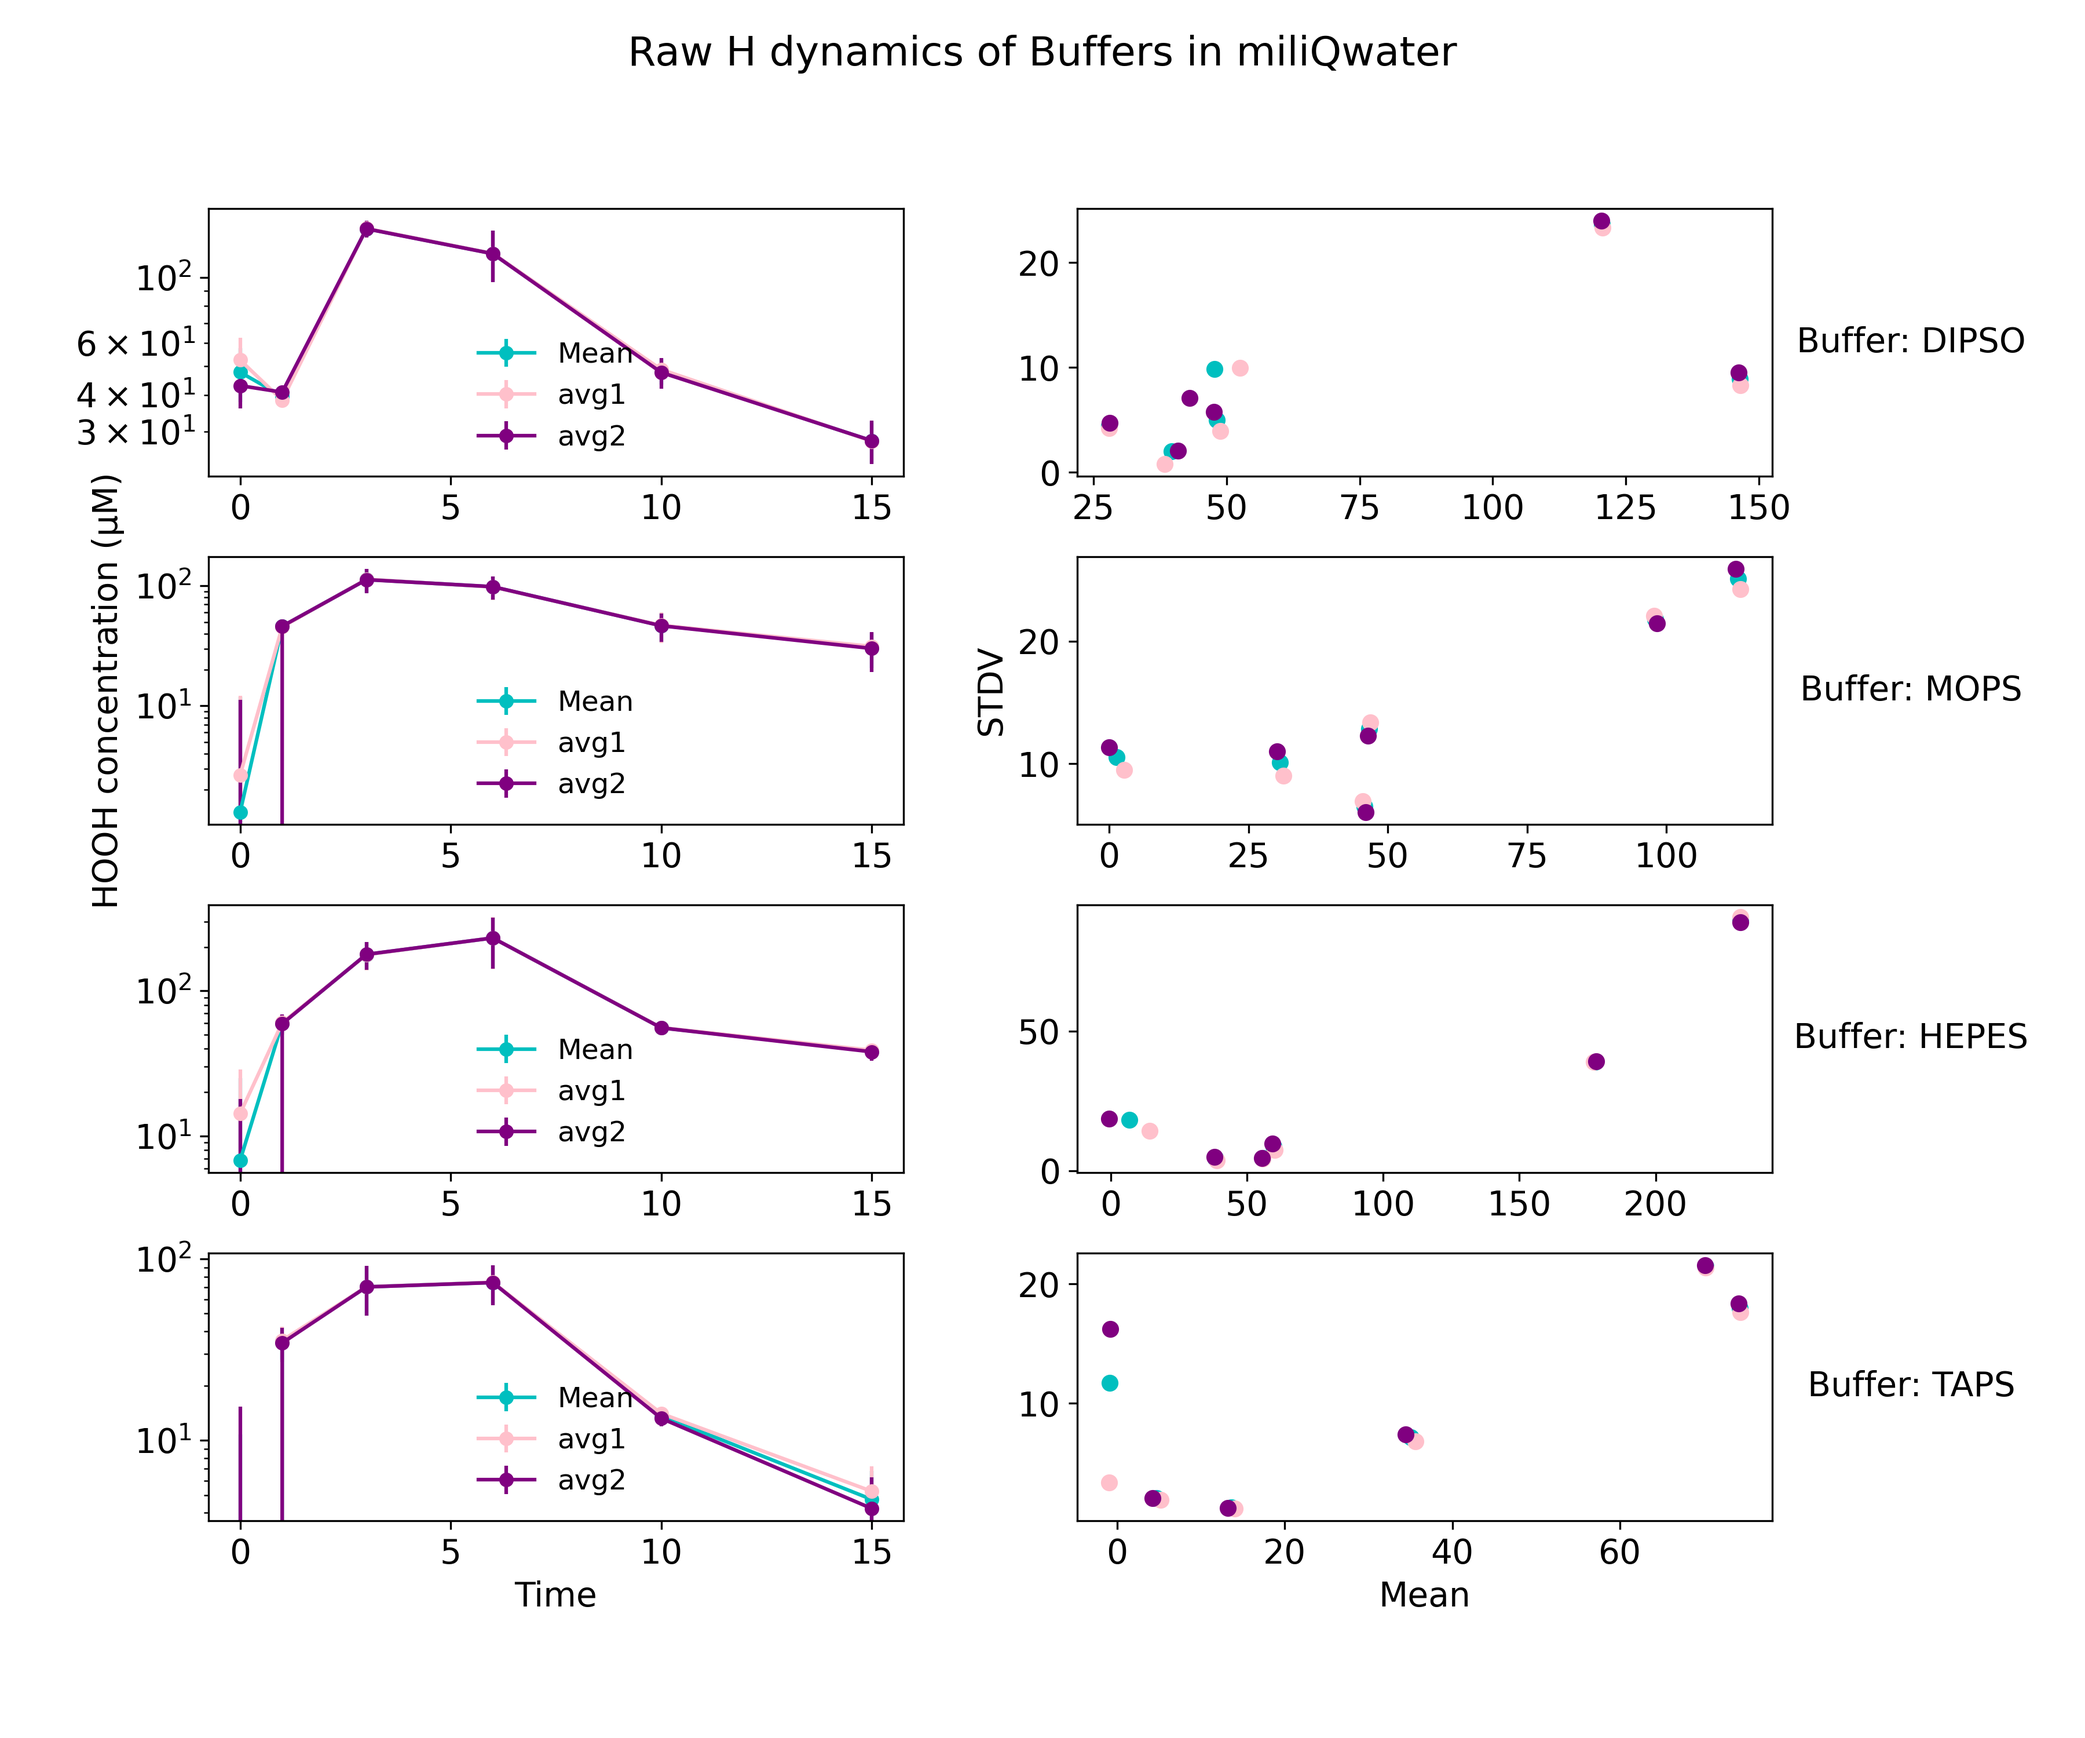
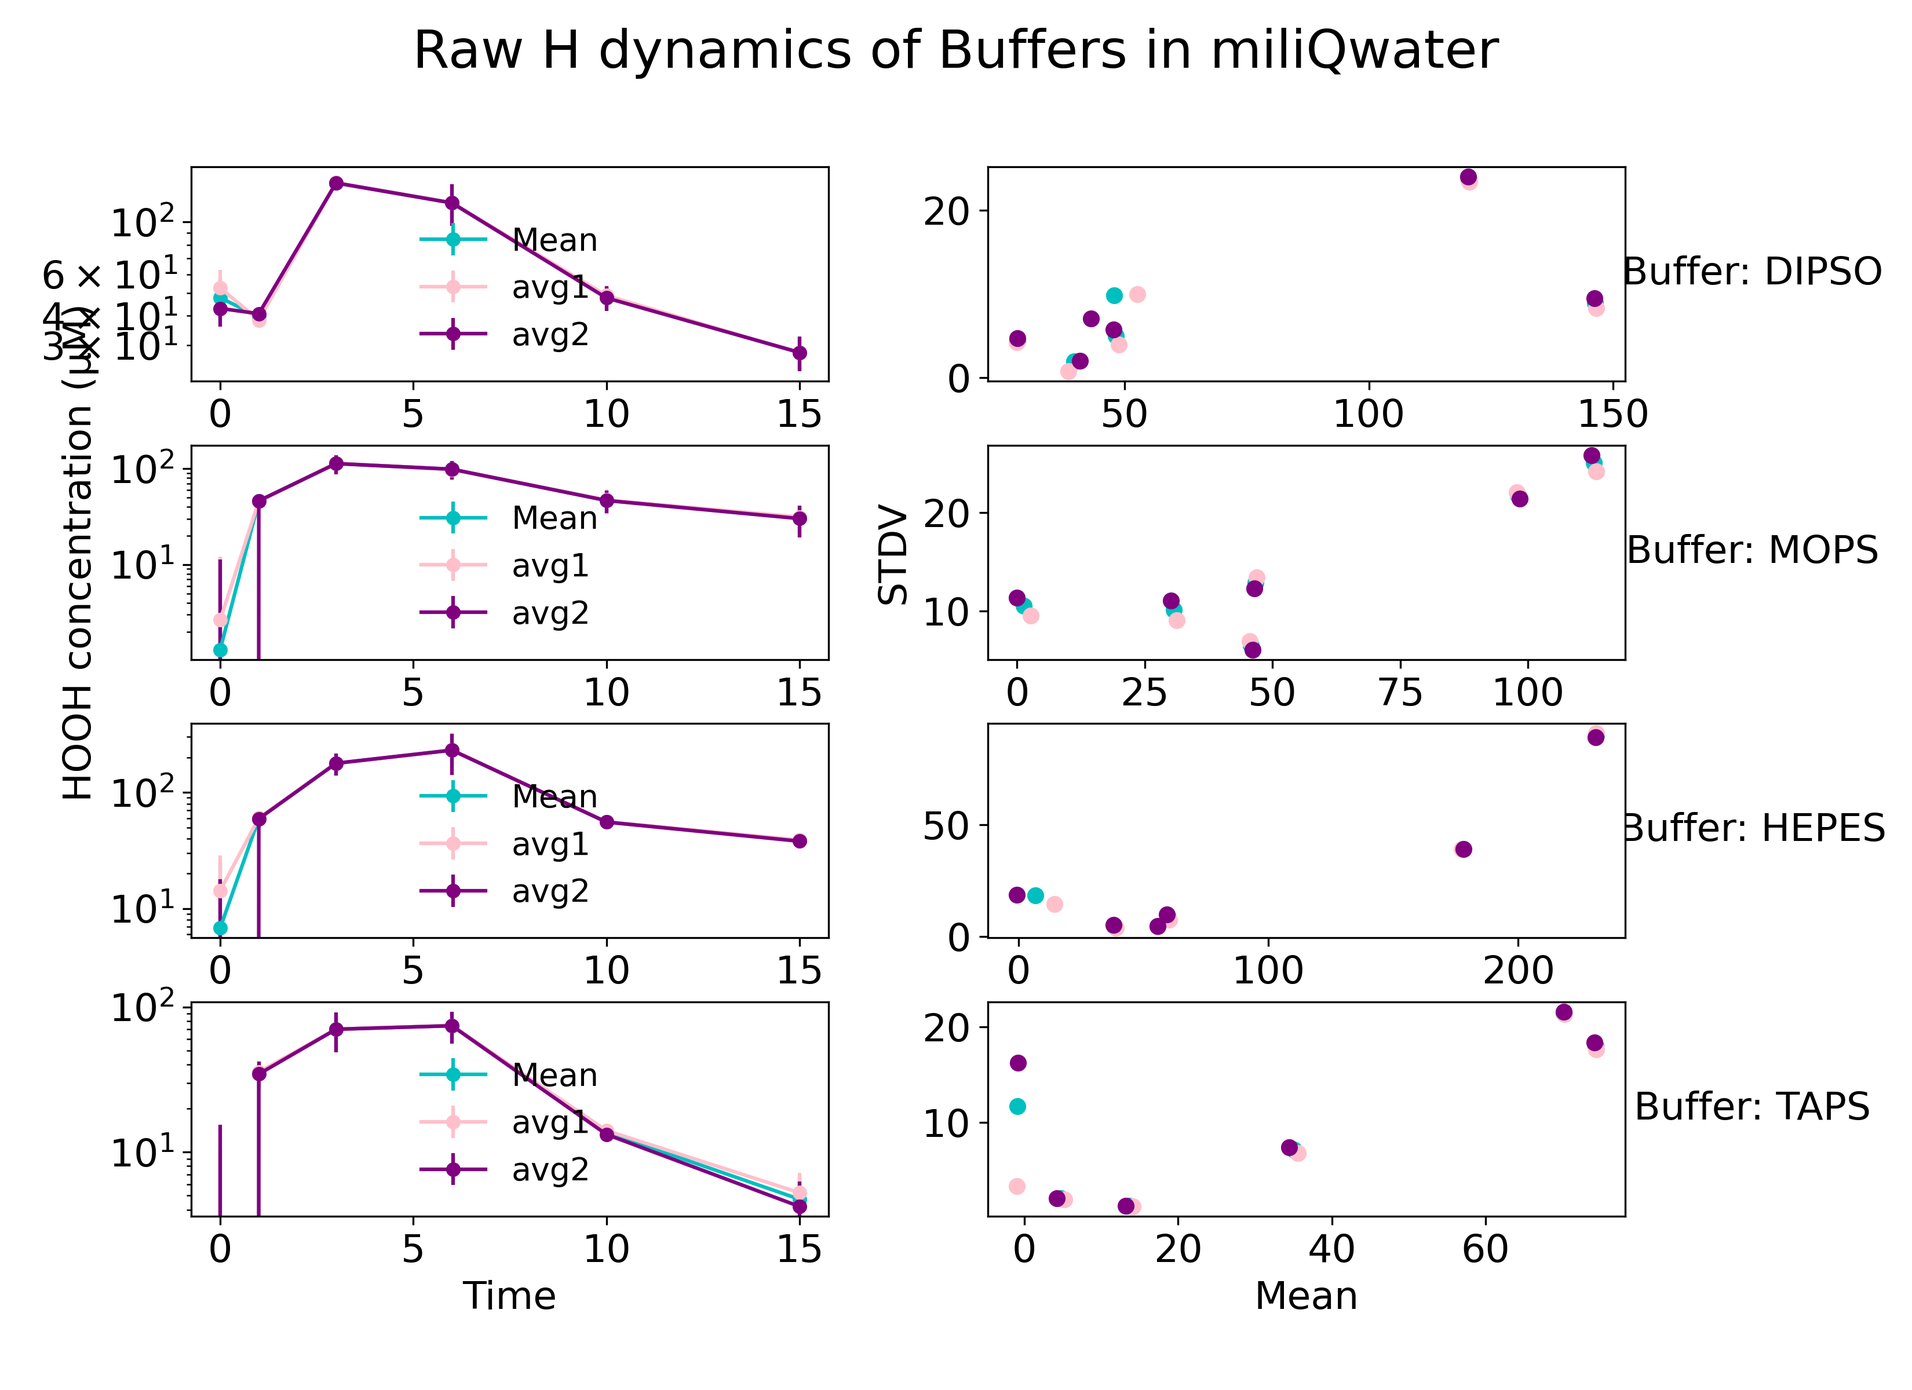
buffers in situ

diff --git a/src/viz_Hepes_trials.py b/src/viz_Hepes_trials.py
@@ -15,7 +15,7 @@ to do: Get model working for Hepes treatments in data
 '''
 
 
-from scipy import *
+import scipy 
 from scipy.integrate import odeint
 import pandas as pd
 import numpy as np      
@@ -43,7 +43,7 @@ plt.rcParams['legend.fontsize'] = 'small'
 #import csv
 df_all = pd.read_csv("../data/Hepes_assay_2013.csv") #use relative paths 
 df_all.rename(columns = {'time(days)':'time'},inplace = True) 
-df_all.dropna()
+df_all.fillna(0)
 #use df clip? or just use 0H as control for base level of media 
 
 #making log of data to look at error (how to do in loop? all combined whe I tried)
@@ -101,9 +101,9 @@ ax1.semilogy()
 plt.tick_params(size = 14)
 
 
-fig2,(ax2)= plt.subplots(nROSs,2, figsize = (14,11))
+fig2,(ax2)= plt.subplots(nROSs,2, figsize = (13,11))
 fig2.suptitle('Raw H dynamics of Hepes Buffer ')
-fig2.subplots_adjust(right=0.85, left=0.10,wspace = 0.25, hspace = 0.30)
+fig2.subplots_adjust(right=0.85, left=0.10,wspace = 0.25, hspace = 0.35)
 ax2[0,0].set_title('Production Curve')
 ax2[3,0].set_ylabel('HOOH concentration (\u03BCM)')
 ax2[-1,0].set_xlabel('Time' )
@@ -112,9 +112,9 @@ ax2[0,1].set_title('STATS')
 ax2[3,1].set_ylabel('STDV')
 ax2[-1,1].set_xlabel('Mean' )
 
-fig3,(ax3) = plt.subplots(nROSs,2,figsize = (14,11))
+fig3,(ax3) = plt.subplots(nROSs,2,figsize = (13,11))
 fig3.suptitle(' Log H dynamics of Hepes Buffer ')
-fig3.subplots_adjust(right=0.85, left=0.10,wspace = 0.25, hspace = 0.30)
+fig3.subplots_adjust(right=0.85, left=0.10,wspace = 0.25, hspace = 0.35)
 ax3[0,0].set_title('Production Curve')
 ax3[3,0].set_ylabel('HOOH concentration (\u03BCM)')
 ax3[-1,0].set_xlabel('Time' )
@@ -123,10 +123,26 @@ ax3[0,1].set_title('STATS')
 ax3[3,1].set_ylabel('Log STDV')
 ax3[-1,1].set_xlabel('Log Mean' )
 
+fig4,(ax4) = plt.subplots(nROSs,2,figsize = (13,11))
+fig4.suptitle(' Coorelations of Hepes ')
+fig4.subplots_adjust(left=0.15, bottom=0.10, right=0.90, top=0.85, wspace=0.25, hspace=0.4)
+ax4[0,0].set_title('Raw ')
+ax4[0,1].set_title('Logged ')
 
 #graphing ROS dfs each 
 for (ros,ri) in zip(ROSs,range(nROSs)): # loop over ROS
     df = (df_all[df_all['Hepes_treatment']==ros]) # select one ROS treatment at a time 
+    #ratios for graphing?
+    raw_ratio =  (np.max(df.abundance/df.sigma))
+    log_ratio =  (np.max(df.log_abundance/df.log_sigma))
+    rats  = [raw_ratio,log_ratio]
+    print(raw_ratio,log_ratio,rats)
+    (rats) = np.rint(rats)
+    best_ratio = (np.max(rats))
+    rat_dif = (rats/best_ratio)
+    stretch_rat = abs(rat_dif -1)
+    print(stretch_rat)
+    #plot
     ax1.plot(df.time,df.abundance,color = colors[ri], marker = markers[ri], markersize = 10, linestyle = ':', label='HEPES = '+str(ros)) # graph each 
     #raw data and stats for multi graph
     ax2[ri,0].errorbar(df.time,df.abundance, yerr=df.sigma, marker = markers[ri],markersize= 10, label =('Mean'), c=colors[ri])
@@ -134,12 +150,14 @@ for (ros,ri) in zip(ROSs,range(nROSs)): # loop over ROS
     ax2[ri,0].errorbar(df.time,df.avg2, yerr=df.stdv2,marker = markers[ri],markersize= 10, label =('avg2'), color = 'brown' )
     #log y axis and add legend to dynamics graph 
     ax2[ri,0].semilogy()
+
     l2 = ax2[ri,0].legend(loc = 'upper left')
     l2.draw_frame(False)
     #graph loggedstats
-    ax2[ri,1].scatter(df.log_abundance,df.log_sigma, c=colors[ri])
-    ax2[ri,1].scatter(df.lavg1,df.stdlog1, c='k')
-    ax2[ri,1].scatter(df.lavg2,df.stdlog2, c='brown')
+    ax2[ri,1].scatter(df.abundance,df.sigma, c=colors[ri])
+    ax2[ri,1].scatter(df.avg1,df.stdv1, c='k')
+    ax2[ri,1].scatter(df.avg2,df.stdv2, c='brown')
+    
     #annotate side of large fig
     ax2[ri,0].text(1.2,0.5,('Hepes [] : '+ str(ros)),horizontalalignment='center', verticalalignment='center', transform=ax2[ri,1].transAxes)
 
@@ -153,17 +171,50 @@ for (ros,ri) in zip(ROSs,range(nROSs)): # loop over ROS
     ax3[ri,0].semilogy()
     l3 = ax3[ri,0].legend(loc = 'upper left')
     l3.draw_frame(False)
-#annotate
+    #annotate large graph 
     ax3[ri,0].text(1.2,0.5,'Hepes [] : '+ str(ros),horizontalalignment='center', verticalalignment='center', transform=ax3[ri,1].transAxes)
-
-    #logged stats
-
-    ax3[ri,1].scatter(df.abundance,df.sigma, c=colors[ri])
-    ax3[ri,1].scatter(df.avg1,df.stdv1, c='k')
-    ax3[ri,1].scatter(df.avg2,df.stdv2, c='brown')
-
-
     
+    #lgraph ogged stats
+    ax3[ri,1].scatter(df.log_abundance,df.log_sigma, c=colors[ri])
+    ax3[ri,1].scatter(df.lavg1,df.stdlog1, c='k')
+    ax3[ri,1].scatter(df.lavg2,df.stdlog2, c='brown')
+
+
+#create coorelations for fig 4
+    raw_r,raw_p  = scipy.stats.pearsonr(df['abundance'],df['sigma'])
+    log_r,log_p = scipy.stats.pearsonr(df['log_abundance'],df['log_sigma'])
+    print(raw_r,log_r)
+#Graph raw and logged coorelations for each ROS 
+
+
+    #annotate coor graph 
+    ax4[ri,0].hist(raw_r,color = 'b')
+    ax4[ri,1].hist(log_r,color = 'r')
+    ax4[ri,0].text(1.2,0.5,'Hepes [] : '+ str(ros),horizontalalignment='center', verticalalignment='center', transform=ax3[ri,1].transAxes)
+ 
+
+    #working to set y and x lims
+    '''
+    #ax2.set_xlim(x.min()/ymin(), x.max()/ymax())
+    #ax2[ri,1].set_xlim(0, int(np.max()))
+    #plt.xlim(0, best_ratio)
+    #plt.ylim(0, best_ratio)
+    '''
+
+#config large stats  graph labels 
+# ylabels
+for a in ax2[:,1]:
+    a.set_ylabel('STDV')
+    a.set_xlabel('Mean')
+    #a.set_xlim(((stretch_rat[0])*df.abundance[0]),(stretch_rat[0])*df.abundance[-1])
+    #a.set_ylim()
+
+for a in ax3[:,1]:
+    a.set_ylabel('Log STDV')
+    a.set_xlabel('Log Mean ')
+    #a.set_xlim()
+    #a.set_ylim()
+
 
 
 #makinng legend (must be after graphing to have label handles)

diff --git a/src/model_Hepes_mulit_deltas.py b/src/model_Hepes_mulit_deltas.py
@@ -28,18 +28,50 @@ import matplotlib.pyplot as plt
 
 ######################################################################
 
-#import csv
-df_all = pd.read_csv("../data/fig1a_reformat.csv") #use relative paths 
-df_all.rename(columns = {'Time (days)':'times','treatment (milliMolar)':'treatment', 'HOOH (micromolar)':'HOOH'}, inplace = True)
-#df_all[['rep1', 'rep2','rep3']] = df_all[['rep1', 'rep2','rep3']].fillna(value=0)
-#df_all = df_all.dropna(axis = 1)     #taking NaN columns off the end of df but had to fill rep 1 and 2 Nans first
-#df_all = df_all.rename({'Time(days)':'times'}, axis=1)    #'renaming column to make it callable by 'times'
-#neeed to cut off extra NAN columns 
+import csv
+df_all = pd.read_csv("../data/Hepes_assay_2013.csv") #use relative paths 
+df_all.rename(columns = {'time(days)':'time'},inplace = True) 
+df_all.dropna()
+#use df clip? or just use 0H as control for base level of media 
+
+#making log of data to look at error (how to do in loop? all combined whe I tried)
+df_all['log1'] = np.log(df_all['rep1'])
+df_all['log2'] = np.log(df_all['rep2'])
+df_all['log3'] = np.log(df_all['rep3'])
+df_all['log4'] = np.log(df_all['rep4'])
+df_all['log5'] = np.log(df_all['rep5'])
+df_all['log6'] = np.log(df_all['rep6'])
+
+df_all['avg1'] = np.nanmean(np.r_[[df_all[i] for i in ['rep1','rep2','rep3']]],axis=0)
+df_all['avg2'] = np.nanmean(np.r_[[df_all[i] for i in ['rep4', 'rep5', 'rep6']]],axis=0)
+df_all['stdv1'] = np.std(np.r_[[df_all[i] for i in ['rep1','rep2','rep3']]],axis=0)
+df_all['stdv2'] = np.std(np.r_[[df_all[i] for i in ['rep4', 'rep5', 'rep6']]],axis=0)
+
+#bio rep logged avgs and stdvs 
+df_all['lavg1'] = np.nanmean(np.r_[[df_all[i] for i in ['log1','log2','log3']]],axis=0)
+df_all['lavg2'] = np.nanmean(np.r_[[df_all[i] for i in ['log4','log5','log6']]],axis=0)
+df_all['stdlog1'] = np.std(np.r_[[df_all[i] for i in ['log1','log2','log3']]],axis=0)
+df_all['stdlog2'] = np.std(np.r_[[df_all[i] for i in ['log4','log5','log6']]],axis=0)
 
 
-ROSs = df_all['treatment'].unique()
+
+
+#calculating stats for trial compilation
+df_all['abundance'] =  np.nanmean(np.r_[[df_all[i] for i in ['rep1','rep2','rep3','rep4','rep5','rep6']]],axis=0)
+df_all['sigma'] = np.nanstd(np.r_[[df_all[i] for i in ['rep1','rep2','rep3','rep4','rep5', 'rep6']]],axis=0)
+
+df_all['log_abundance'] = np.nanmean(np.r_[[df_all[i] for i in ['log1','log2','log3', 'log4','log5','log6']]],axis=0)
+df_all['log_sigma'] = np.nanstd(np.r_[[df_all[i] for i in ['log1','log2','log3','log4','log5','log6']]],axis=0)
+
+
+#split ROS treatments by number 
+ROSs = df_all['Hepes_treatment'].unique()
+ROSs = ROSs[~pd.isna(ROSs)] #clipping off nans 
+
 nROSs = ROSs.shape[0]
-#ROSs.sort()     #Change here to get ambient ROS to be 61 or 90 for species and 0 is detoxed. 
+
+colors = ('yellowgreen','green','c','b','purple','orange','r','k')
+markers = ('.','P','s','1','^','*','p','+')
 
 
 f1,ax1 = plt.subplots(figsize=[8,6])
@@ -48,11 +80,11 @@ colors = ('green','b','orange','r')
 h0s = np.array([])
 
 for (ros,ri) in zip(ROSs,range(nROSs)): # loop over ROS
-    tdf = (df_all[df_all['treatment']==ros]) # select one ROS treatment at a time 
-    hoohs = tdf['HOOH']
+    tdf = (df_all[df_all['Hepes_treatment']==ros]) # select one ROS treatment at a time 
+    hoohs = tdf.abundance
     h0 = hoohs.iloc[0]
     h0s = np.append(h0,h0s) #fing start H for each trial for easier modeling later
-    ax1.plot(tdf['times'],tdf['HOOH'], marker='s',color = colors[ri], markersize = 10, linestyle = ':', label='HEPES = '+str(ros)) # graph each 
+    ax1.plot(tdf['time'],tdf['abundance'], marker='s',color = colors[ri], markersize = 10, linestyle = ':', label='HEPES = '+str(ros)) # graph each 
 
 
 

diff --git a/src/viz_light_assay.py b/src/viz_light_assay.py
@@ -31,7 +31,7 @@ df_all = pd.read_csv('../data/light_assay_2013.csv')
 
 df_all.drop(df_all.columns[df_all.columns.str.contains('unnamed',case = False)],axis = 1, inplace = True)
 df_all = df_all.rename({'Time':'time'}, axis=1)    #'renaming column to make it callable by 'times'
-
+df_all.fillna(0)
 #creating log and stats for data 
 df_all['log1'] = np.log(df_all['rep1'])
 df_all['log2'] = np.log(df_all['rep2'])
@@ -68,22 +68,22 @@ ntreats = treats.shape[0]
 
 for a,n in zip(assays,range(nassays)):
     dfw = df_all[(df_all['Buffer'] == a)]
-    fig1,(ax1)= plt.subplots(ntreats,2, figsize = (14,12))
-    fig1.suptitle('H raw Dynamics from'+ str(a) +' light')
+    fig1,(ax1)= plt.subplots(ntreats,2, figsize = (14,11))
+    fig1.suptitle('H raw Dynamics from'+ str(a) +' light', size = 22)
     fig1.subplots_adjust(right=0.85, left=0.10,wspace = 0.25, hspace = 0.30)
-    ax1[3,0].set_ylabel('HOOH concentration (\u03BCM)')
-    ax1[5,0].set_xlabel('Time' )
+    ax1[3,0].set_ylabel('HOOH concentration (\u03BCM)', size = 16)
+    ax1[5,0].set_xlabel('Time' , size = 16)
     ax1[0,0].semilogy()
-    ax1[3,1].set_ylabel('STDV')
-    ax1[5,1].set_xlabel('Mean' )
-    fig2,(ax2) = plt.subplots(ntreats,2,figsize = (14,12))
-    fig2.suptitle(' Log  dynamics of '+ str(a))
+    ax1[3,1].set_ylabel('STDV', size = 16)
+    ax1[5,1].set_xlabel('Mean' , size = 16)
+    fig2,(ax2) = plt.subplots(ntreats,2,figsize = (14,11))
+    fig2.suptitle(' Log  dynamics of '+ str(a), size = 22)
     fig2.subplots_adjust(right=0.85, left=0.10,wspace = 0.25, hspace = 0.30)
-    ax2[3,0].set_ylabel('HOOH concentration (\u03BCM)')
-    ax2[5,0].set_xlabel('Time' )
+    ax2[3,0].set_ylabel('HOOH concentration (\u03BCM)', size = 16)
+    ax2[5,0].set_xlabel('Time' , size = 16)
     ax2[0,0].semilogy()
-    ax2[3,1].set_ylabel('Log STDV')
-    ax2[5,1].set_xlabel('Log Mean' )
+    ax2[3,1].set_ylabel('Log STDV', size = 16)
+    ax2[5,1].set_xlabel('Log Mean', size = 16 )
     for t,nt in zip(treats,range(ntreats)):
         df = dfw[(dfw['Light']==t) & (dfw['Buffer']==a)]
         ax1[nt,0].plot(df['time'], df['rep1'], marker= '*', markersize= 10, label =('rep1'), color = 'pink') 

diff --git a/src/viz_seawater_hepes.py b/src/viz_seawater_hepes.py
@@ -29,7 +29,7 @@ df_all = pd.read_csv('../data/seawater_assay_2013.csv')
 
 df_all.drop(df_all.columns[df_all.columns.str.contains('unnamed',case = False)],axis = 1, inplace = True)
 df_all = df_all.rename({'Time':'time'}, axis=1)    #'renaming column to make it callable by 'times'
-
+df_all.fillna(0)
 #creating log and stats for data 
 df_all['log1'] = np.log(df_all['rep1'])
 df_all['log2'] = np.log(df_all['rep2'])
@@ -67,16 +67,16 @@ ntreats = treats.shape[0]
 for a,n in zip(assays,range(nassays)):
     dfw = df_all[(df_all['Buffer'] == a)]
     #print(dfw)
-    fig1,(ax1)= plt.subplots(ntreats,2, figsize = (14,12))
-    fig1.suptitle('H raw Dynamics from'+ str(a) +'% Seawater')
+    fig1,(ax1)= plt.subplots(ntreats,2, figsize = (10,8))
+    fig1.suptitle('H raw Dynamics from'+ str(a) +'% Seawater', size = 22)
     fig1.subplots_adjust(right=0.85, left=0.10,wspace = 0.25, hspace = 0.30)
     ax1[2,0].set_ylabel('HOOH concentration (\u03BCM)')
     ax1[4,0].set_xlabel('Time' )
     ax1[0,0].semilogy()
     ax1[2,1].set_ylabel('STDV')
     ax1[4,1].set_xlabel('Mean' )
-    fig2,(ax2) = plt.subplots(ntreats,2,figsize = (14,12))
-    fig2.suptitle(' Log  dynamics of '+ str(a)+' % Seawater')
+    fig2,(ax2) = plt.subplots(ntreats,2,figsize = (10,8))
+    fig2.suptitle(' Log  dynamics of '+ str(a)+' % Seawater', size = 22)
     fig2.subplots_adjust(right=0.85, left=0.10,wspace = 0.25, hspace = 0.30)
     ax2[2,0].set_ylabel('HOOH concentration (\u03BCM)')
     ax2[4,0].set_xlabel('Time' )

diff --git a/src/viz_miliQ_buffers.py b/src/viz_miliQ_buffers.py
@@ -33,6 +33,8 @@ df_all = pd.read_csv('../data/miliQ_bufferH_2013MorrisSIfig1b.csv')
 df_all.drop(df_all.columns[df_all.columns.str.contains('unnamed',case = False)],axis = 1, inplace = True)
 df_all = df_all.rename({'Time':'time'}, axis=1)    #'renaming column to make it callable by 'times'
 
+
+
 df = df_all 
 
 #logging data for latter graphing 
@@ -84,8 +86,8 @@ ntreats = treats.shape[0]
 ##############################
 
 
-fig1,(ax1)= plt.subplots(ntreats,2, figsize = (12,10))
-fig1.suptitle('Raw H dynamics of Buffers in miliQwater')
+fig1,(ax1)= plt.subplots(ntreats,2, figsize = (11,8))
+fig1.suptitle('Raw H dynamics of Buffers in miliQwater', size = 22)
 fig1.subplots_adjust(right=0.85, left=0.10,wspace = 0.25, hspace = 0.30)
 ax1[1,0].set_ylabel('HOOH concentration (\u03BCM)')
 ax1[3,0].set_xlabel('Time' )
@@ -93,8 +95,8 @@ ax1[0,0].semilogy()
 ax1[1,1].set_ylabel('STDV')
 ax1[3,1].set_xlabel('Mean' )
 
-fig2,(ax2) = plt.subplots(ntreats,2,figsize = (12,10))
-fig2.suptitle(' Log  H dynamics of Buffers in miliQwater')
+fig2,(ax2) = plt.subplots(ntreats,2,figsize = (11,8))
+fig2.suptitle(' Log  H dynamics of Buffers in miliQwater',size = 22)
 fig2.subplots_adjust(right=0.85, left=0.10,wspace = 0.25, hspace = 0.30)
 ax2[1,0].set_ylabel('HOOH concentration (\u03BCM)')
 ax2[2,0].set_xlabel('Time' )

diff --git a/src/viz_buffers_2013.py b/src/viz_buffers_2013.py
@@ -32,6 +32,7 @@ df_all = pd.read_csv('../data/all_buffers_2013Morrisf1c.csv')
 
 df_all.drop(df_all.columns[df_all.columns.str.contains('unnamed',case = False)],axis = 1, inplace = True)
 df_all = df_all.rename({'Time':'time'}, axis=1)    #'renaming column to make it callable by 'times'
+df_all.fillna(0)
 
 #creating log and stats for data 
 df_all['log1'] = np.log(df_all['rep1'])
